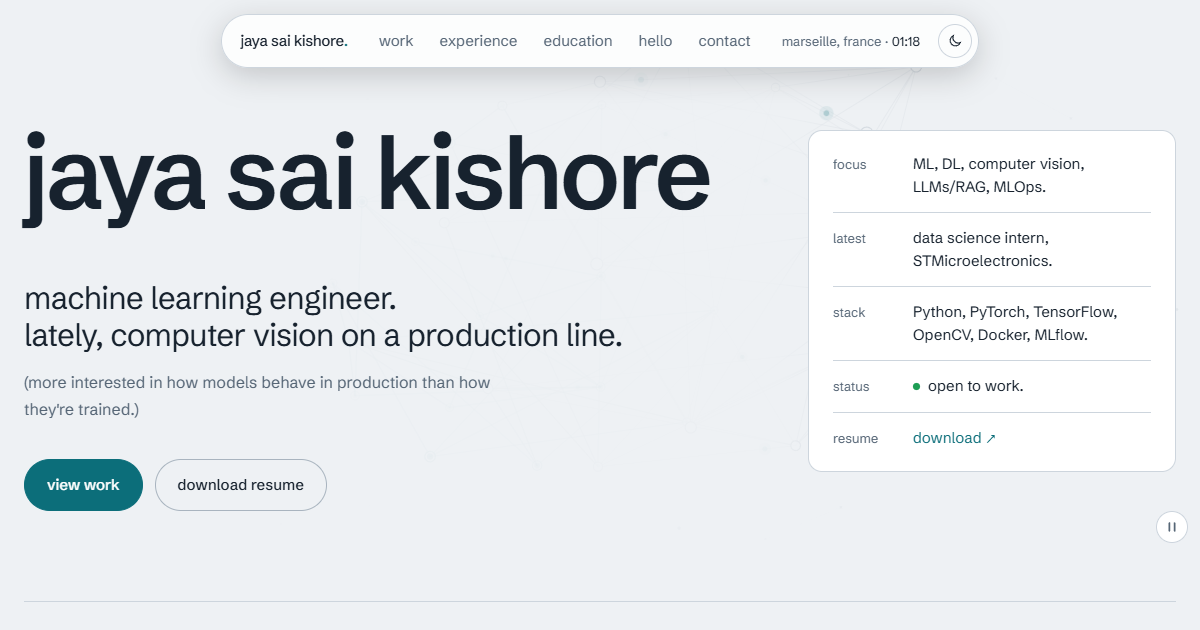
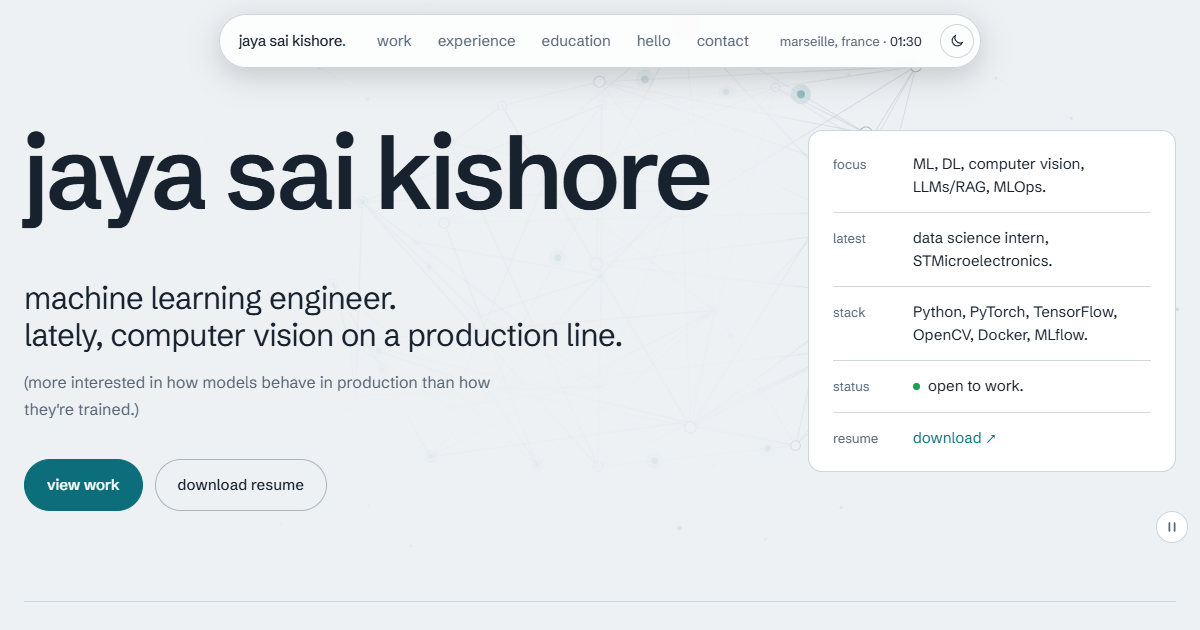
Hero network: more visible, contrast still measured >= 4.5:1
- One strength token for light and dark: effects.netOpacity = 0.8 in
  theme.js (was 35% light / 45% dark); the loader keeps its own 60%.
- Thicker lines (plexus 1px, network 1.2-2px), plexus dots and signal
  dots about 30% bigger.
- Plexus fade behind the text block 95% -> 30% (network fade unchanged).
- The muted note line was the only text under 4.5:1 afterwards, so it gets
  its own extra 60% fade (CALM_EXTRA); worst case now 4.62 (phone, light).
- Link-preview image regenerated.

diff --git a/src/utils/neuralNet3d.js b/src/utils/neuralNet3d.js
@@ -174,7 +174,8 @@ export function makeCalmMask(width, height, rect, dpr) {
  * options: width/height (CSS px; the context is already scaled for the DPR),
  * colours, still (reduced motion: no drift, rotation, wave or dots),
  * pointer (target parallax, -1…1 on each axis, or null), calm ({ mask,
- * field, network }: how much of each layer to erase behind the text), dpr.
+ * field, network, extras }: how much of each layer to erase behind the text
+ * block, plus extra masks behind single lines that need more).
  */
 export function drawFrame(ctx, scene, { width, height, time, colours, still = false, pointer = null, calm = null }) {
   ctx.clearRect(0, 0, width, height);
@@ -223,7 +224,7 @@ export function drawFrame(ctx, scene, { width, height, time, colours, still = fa
   });
 
   ctx.strokeStyle = rgb(colours.base);
-  ctx.lineWidth = 0.6;
+  ctx.lineWidth = 1;
   const limit2 = LINK_DISTANCE * LINK_DISTANCE;
   const ps = scene.particles;
   for (let i = 0; i < ps.length; i++) {
@@ -242,7 +243,7 @@ export function drawFrame(ctx, scene, { width, height, time, colours, still = fa
   for (const p of pts) {
     ctx.globalAlpha = 0.8 * depth(p.scale);
     ctx.beginPath();
-    ctx.arc(p.sx, p.sy, 1.3 * p.scale, 0, Math.PI * 2);
+    ctx.arc(p.sx, p.sy, 1.7 * p.scale, 0, Math.PI * 2);
     ctx.fill();
   }
 
@@ -270,7 +271,7 @@ export function drawFrame(ctx, scene, { width, height, time, colours, still = fa
     const i = (intensity[from] + intensity[to]) / 2;
     ctx.globalAlpha = (0.4 + 0.6 * i) * depth((a.scale + b.scale) / 2);
     ctx.strokeStyle = mix(colours.base, glow, i);
-    ctx.lineWidth = 0.9 + 0.7 * i;
+    ctx.lineWidth = 1.2 + 0.8 * i; // 1.2 px at rest, 2 px as the wave passes
     ctx.beginPath();
     ctx.moveTo(a.sx, a.sy);
     ctx.lineTo(b.sx, b.sy);
@@ -292,11 +293,11 @@ export function drawFrame(ctx, scene, { width, height, time, colours, still = fa
       ctx.fillStyle = rgb(glow);
       ctx.globalAlpha = alpha * 0.25; // soft halo
       ctx.beginPath();
-      ctx.arc(x, y, 5.5 * s, 0, Math.PI * 2);
+      ctx.arc(x, y, 7.2 * s, 0, Math.PI * 2);
       ctx.fill();
       ctx.globalAlpha = alpha; // core
       ctx.beginPath();
-      ctx.arc(x, y, 2.2 * s, 0, Math.PI * 2);
+      ctx.arc(x, y, 2.9 * s, 0, Math.PI * 2);
       ctx.fill();
     }
   }
@@ -325,8 +326,10 @@ export function drawFrame(ctx, scene, { width, height, time, colours, still = fa
     }
   }
 
-  // The network fades behind the text too, less than the field.
+  // The network fades behind the text block too.
   if (calm) erase(ctx, calm.mask, calm.network, width, height);
+  // And extra, behind single lines that need it (both layers).
+  for (const extra of calm?.extras ?? []) erase(ctx, extra.mask, extra.amount, width, height);
 
   ctx.globalAlpha = 1;
 }

diff --git a/src/components/Hero/NeuralNet.jsx b/src/components/Hero/NeuralNet.jsx
@@ -8,7 +8,10 @@ const SMALL_SCREEN = 768; // below this: fewer plexus particles
 
 // How much of each layer to erase behind the hero's text block (0…1), so the
 // name, tagline, note and meta line keep at least 4.5:1 contrast (measured).
-const CALM = { field: 0.95, network: 0.85 };
+const CALM = { field: 0.3, network: 0.85 };
+// Extra fade behind single lines of text that need it (both layers), measured:
+// the muted note line was the only one under 4.5:1 at full network strength.
+const CALM_EXTRA = [{ selector: ".hero-note", amount: 0.6 }];
 
 const VARIANTS = {
   // Faint, behind the whole hero, calm behind its text, with a pause button.
@@ -126,12 +129,23 @@ export class NeuralNet extends PureComponent {
 
     if (this.calmTarget) {
       // Layout position (offset*), so the hero's entrance transform doesn't shift it.
-      const rect = { x: 0, y: 0, width: this.calmTarget.offsetWidth, height: this.calmTarget.offsetHeight };
-      for (let el = this.calmTarget; el && el !== root.offsetParent; el = el.offsetParent) {
-        rect.x += el.offsetLeft;
-        rect.y += el.offsetTop;
-      }
-      this.calm = { mask: makeCalmMask(width, height, rect, dpr), ...CALM };
+      const layoutRect = (target) => {
+        const rect = { x: 0, y: 0, width: target.offsetWidth, height: target.offsetHeight };
+        for (let el = target; el && el !== root.offsetParent; el = el.offsetParent) {
+          rect.x += el.offsetLeft;
+          rect.y += el.offsetTop;
+        }
+        return rect;
+      };
+      const hero = root.parentElement;
+      this.calm = {
+        mask: makeCalmMask(width, height, layoutRect(this.calmTarget), dpr),
+        ...CALM,
+        extras: CALM_EXTRA.flatMap(({ selector, amount }) => {
+          const el = hero.querySelector(selector);
+          return el ? [{ mask: makeCalmMask(width, height, layoutRect(el), dpr), amount }] : [];
+        }),
+      };
     }
     this.draw();
   }

diff --git a/src/components/Hero/NeuralNet.css b/src/components/Hero/NeuralNet.css
@@ -15,14 +15,10 @@
   height: 100%;
 }
 
-/* Faint behind text. Tuned by measuring the name, tagline and meta line's
-   contrast against the brightest moment of the network (at least 4.5:1). */
+/* Strength: one token for light and dark (theme.js → effects.netOpacity).
+   The text stays readable through NeuralNet's calm masks (measured ≥ 4.5:1). */
 .nn--hero {
-  opacity: 0.35;
-}
-
-:root[data-theme="dark"] .nn--hero {
-  opacity: 0.45;
+  opacity: var(--net-opacity);
 }
 
 /* ---------- pause / play ----------

diff --git a/src/theme/theme.js b/src/theme/theme.js
@@ -81,6 +81,12 @@ export const theme = {
     weightStrong: "500", // emphasis without colour: active project, navbar name, case-study title
   },
 
+  effects: {
+    // Strength of the hero's 3D network background (NeuralNet), light and dark.
+    // Text contrast behind it is protected by NeuralNet's calm masks (measured).
+    netOpacity: "0.8",
+  },
+
   radii: {
     card: "14px",
     pill: "999px",

diff --git a/src/theme/themeCss.js b/src/theme/themeCss.js
@@ -31,6 +31,7 @@ export function cssVariables(t) {
     "--weight-name": t.typography.weightName,
     "--weight-display": t.typography.weightDisplay,
     "--weight-strong": t.typography.weightStrong,
+    "--net-opacity": t.effects.netOpacity,
     "--radius-card": t.radii.card,
     "--radius-pill": t.radii.pill,
     "--shadow-nav": t.shadows.nav,
